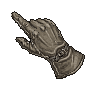
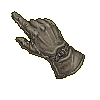
Oberfläche: Mauszeiger-Schein nur noch ein Pixel breiter Goldsaum
Statt der weichen Wolke (30 %) ein Pixel breiter Saum direkt an der Silhouette,
230/190/110 mit 55 % Deckkraft; --schein-neu bildet ihn aus den normal-Bildern.

Agent: oberflaeche
Claude-Session: https://claude.ai/code/session_016Yw37qCSJMoMyzR6gmxRFS

Changed region(s): [[0.09, 0.09, 0.87, 0.81]]

diff --git a/tools/oberflaeche/zeiger_aus_vorlage.py b/tools/oberflaeche/zeiger_aus_vorlage.py
@@ -25,7 +25,7 @@ Mit --gemini ORDNER werden acht fertig gezeichnete Handschuhe (1_gemeiner.png bi
 deckungsgleich ausgerichtet (Fingerspitze und Schnalle), je einzeln gepixelt (Gold, Silber und Edelsteine als Akzente) und als
 hand_<1..6|wache|dieb>_normal|klick_<px>.png geschrieben. Seit 08.11.2026 ohne hellen Außenrand: „normal“ ist der Handschuh mit
 rundum durchsichtigem Rand (SCHEINRAND), „klick“ (beim Drüberfahren über Anklickbares) derselbe Handschuh unverändert mit einem
-weichen Außenschein in diesem Rand (seit 09.11.2026 dezent golden, 30 % statt weiß 80 %). Beide Bilder sind gleich groß, der Zeigerpunkt in hotspots.txt gilt für beide.
+dezenten Goldsaum von einem Pixel in diesem Rand (seit 09.11.2026: 230/190/110, 55 % Deckkraft; vorher weiche weiße Wolke). Beide Bilder sind gleich groß, der Zeigerpunkt in hotspots.txt gilt für beide.
 
 Ausgabe: zeiger_<px>.png, zeiger_<px>_klick.png, hotspots.txt (Fingerspitze = deckendes Pixel mit kleinstem x+y).
 """
@@ -607,8 +607,8 @@ def laden_ausgerichtet(ordner):
 
 SCHEINRAND = {32: 4, 48: 6, 64: 8, 80: 10}   # Pixel durchsichtiger Rand rundum für den Außenschein je Größe
 SCHEIN_FARBE = (230, 190, 110)   # warmes Gold (seit 09.11.2026; vorher Weiß 255/249/232)
-SCHEIN_STAERKE = 0.30            # höchste Deckkraft am Handschuhrand (vorher 0,80)
-SCHEIN_ALT = ((255, 249, 232), 0.80)
+SCHEIN_STAERKE = 0.55            # Deckkraft des Saums (seit 09.11.2026 ein Pixel breit; vorher weiche Wolke bis 0,80, dann 0,30)
+SCHEIN_BREITE = 1                # Pixel Breite des Goldsaums direkt an der Silhouette
 
 
 def auffuellen(bild, pad):
@@ -620,51 +620,51 @@ def auffuellen(bild, pad):
     return neu
 
 
+def saum_ring(innen, breite=SCHEIN_BREITE):
+    """Ring der Breite Pixel um die Silhouette (Nachbarschaft mit Diagonalen, damit der Saum an Ecken geschlossen bleibt)."""
+    m = innen
+    for _ in range(breite):
+        p = np.pad(m, 1)
+        h, w = m.shape
+        m = np.zeros_like(m)
+        for dy in (0, 1, 2):
+            for dx in (0, 1, 2):
+                m = m | p[dy:dy + h, dx:dx + w]
+    return m & ~innen
+
+
 def mit_schein(bild, pad):
-    """Weicher weißer Schein außerhalb der Silhouette (Abstand zum nächsten deckenden Pixel, quadratisch auslaufend);
-    der Handschuh selbst bleibt Pixel für Pixel unverändert."""
+    """Dezenter Goldsaum (SCHEIN_BREITE Pixel, SCHEIN_STAERKE) direkt außerhalb der Silhouette (voll deckende Pixel); der
+    Handschuh selbst bleibt Pixel für Pixel unverändert, alles andere ist durchsichtig."""
     innen = bild[..., 3] == 255
-    h, w = innen.shape
-    dist = np.full((h, w), 1e9, np.float32)
-    p = np.pad(innen, pad)
-    for dy in range(-pad, pad + 1):
-        for dx in range(-pad, pad + 1):
-            d = (dy * dy + dx * dx) ** 0.5
-            if d > pad:
-                continue
-            versetzt = p[pad + dy:pad + dy + h, pad + dx:pad + dx + w]
-            dist = np.where(versetzt, np.minimum(dist, d), dist)
-    t = np.clip(1.0 - (dist - 0.5) / pad, 0.0, 1.0)
-    alpha = SCHEIN_STAERKE * t * t
-    alpha[innen] = 0
+    ring = saum_ring(innen)
     out = bild.copy()
     aussen = ~innen
-    out[aussen, :3] = np.array(SCHEIN_FARBE, np.uint8)
-    out[aussen, 3] = (alpha[aussen] * 255).round().astype(np.uint8)
+    out[aussen, :3] = UMRISS.astype(np.uint8)
+    out[aussen, 3] = 0
+    out[ring, :3] = np.array(SCHEIN_FARBE, np.uint8)
+    out[ring, 3] = int(round(SCHEIN_STAERKE * 255))
     return out
 
 
 def schein_neu_lauf(args):
-    """Schein der fertigen Bilder (hand_*_klick_*.png, tuer_schloss_*.png) im Ordner args.schein_neu auf SCHEIN_FARBE und
-    SCHEIN_STAERKE umstellen, ohne die Vorlagen: Außenpixel mit der alten Scheinfarbe werden umgefärbt, ihre Deckkraft im
-    Verhältnis neu/alt skaliert. Bildgröße und Zeigerpunkt bleiben unverändert."""
-    alt = np.array(SCHEIN_ALT[0], np.uint8)
-    faktor = SCHEIN_STAERKE / SCHEIN_ALT[1]
+    """Schein der fertigen Bilder im Ordner args.schein_neu auf einen SCHEIN_BREITE Pixel breiten Goldsaum umstellen, ohne die
+    Vorlagen: hand_*_klick_*.png wird aus dem zugehörigen hand_*_normal_*.png (ohne Schein) neu gebildet, tuer_schloss_*.png
+    aus seinen voll deckenden Pixeln. Bildgröße, Rand und Zeigerpunkt bleiben unverändert; der Lauf ist wiederholbar."""
     for name in sorted(os.listdir(args.schein_neu)):
         if not name.endswith(".png") or not (name.startswith("tuer_schloss_") or "_klick_" in name):
             continue
         pfad = os.path.join(args.schein_neu, name)
-        bild = oiio.ImageBuf(pfad, 0, 0, _ohne_vormultiplikation()).get_pixels(oiio.UINT8).copy()
-        schein = (bild[..., 3] < 255) & np.all(bild[..., :3] == alt, axis=-1)
-        bild[schein, :3] = np.array(SCHEIN_FARBE, np.uint8)
-        bild[schein, 3] = np.round(bild[schein, 3] * faktor).astype(np.uint8)
-        schreibe(pfad, bild)
-        print(f"{name}: {int(schein.sum())} Scheinpixel")
+        quelle = os.path.join(args.schein_neu, name.replace("_klick_", "_normal_")) if "_klick_" in name else pfad
+        bild = oiio.ImageBuf(quelle, 0, 0, _ohne_vormultiplikation()).get_pixels(oiio.UINT8).copy()
+        neu = mit_schein(bild, 0)
+        schreibe(pfad, neu)
+        print(f"{name}: {int((neu[..., 3] == round(SCHEIN_STAERKE * 255)).sum())} Saumpixel")
 
 
 def schloss_lauf(args):
     """Türschloss (aus tools/modelle/handschuh.py gerendert, tuer_schloss_<px>.png in QUELLE): den hellen halbdurchsichtigen Rand entfernen
-    (nur voll deckende Pixel bleiben) und wie beim Handschuh einen durchsichtigen Rand mit weißem Außenschein anfügen
+    (nur voll deckende Pixel bleiben) und wie beim Handschuh einen durchsichtigen Rand mit dünnem Goldsaum anfügen
     (das Schloss erscheint nur über Anklickbarem). QUELLE muss die unveränderten Bilder enthalten; Ausgabe nach args.ausgabe."""
     os.makedirs(args.ausgabe, exist_ok=True)
     for g in [int(x) for x in args.groessen.split(",") if int(x) in SCHEINRAND and int(x) != 32]:
@@ -751,7 +751,7 @@ def main():
     ap.add_argument("--nachsilbe", default="")
     ap.add_argument("--gemini", help="Ordner mit den sechs Stufenvorlagen (1_gemeiner.png ... 6_reichsgraf.png); dann ist VORLAGE ohne Bedeutung")
     ap.add_argument("--schloss", help="Ordner mit den unveränderten tuer_schloss_<px>.png: Rand entfernen, Schein anfügen (Ausgabe nach AUSGABE)")
-    ap.add_argument("--schein-neu", help="Ordner mit fertigen Zeigerbildern: Schein auf Gold und neue Stärke umstellen (in place); VORLAGE und AUSGABE ohne Bedeutung")
+    ap.add_argument("--schein-neu", help="Ordner mit fertigen Zeigerbildern: Schein als 1-Pixel-Goldsaum aus den normal-Bildern neu bilden (in place); VORLAGE und AUSGABE ohne Bedeutung")
     ap.add_argument("--ziel-hell", type=float, default=58.0, help="Zielhelligkeit des Leders (dunklere Stufen werden darauf angehoben)")
     ap.add_argument("--akzent", type=float, default=0.08, help="Mindestfläche Gold/Silber/Edelstein je Pixel")
     ap.add_argument("--stufen", action="store_true", help="sechs Stufen nach Stand als hand_<stufe>_normal|klick_<px>.png schreiben")

diff --git a/game/assets/oberflaeche/zeiger/HERKUNFT.md b/game/assets/oberflaeche/zeiger/HERKUNFT.md
@@ -2,8 +2,8 @@
 
 Herkunft je Datei: `docs/assets/protokoll.csv`.
 
-**Hände (seit 07.11.2026):** Nutzerzeichnung, vom Nutzer mit Gemini überarbeitet (acht Vorlagenbilder: Gemeiner, Bürger, Patrizier, Edler, Freiherr, Reichsgraf, Wache, Dieb; die Quellbilder liegen nicht im Repository). `tools/oberflaeche/zeiger_aus_vorlage.py` stellt sie frei, richtet sie deckungsgleich aus (Fingerspitze, Schnalle) und pixelt sie je Größe einzeln (Flächenmittel, Umriss neu gezogen, kleine Lederpalette, Gold und Edelsteine als eigene Pixel). **Seit 08.11.2026 ohne hellen Außenrand:** die Bilder sind um einen durchsichtigen Rand von 6/8/10 Pixeln größer (60/80/100 Pixel), „klick“ trägt darin einen weichen Außenschein (seit 09.11.2026 dezent golden, 230/190/110 mit höchstens 30 % Deckkraft statt Weiß mit 80 %; umgestellt mit `zeiger_aus_vorlage.py --schein-neu`, Größe und Zeigerpunkte unverändert), die Lederfarben sind in beiden Fassungen gleich. Acht Hände (sechs nach Stand 1 Gemeiner bis 6 Reichsgraf, dazu 7 Wache und 8 Dieb nur zur freien Wahl) je in „normal“ und „klick“, in 48, 64 und 80 Pixeln. Prompts der Vorlagen sind nicht überliefert (im Protokoll „unbekannt“). **Alle Rechte vorbehalten** (Entscheidung 29.10.2026, `LICENSE-INHALTE.md`).
+**Hände (seit 07.11.2026):** Nutzerzeichnung, vom Nutzer mit Gemini überarbeitet (acht Vorlagenbilder: Gemeiner, Bürger, Patrizier, Edler, Freiherr, Reichsgraf, Wache, Dieb; die Quellbilder liegen nicht im Repository). `tools/oberflaeche/zeiger_aus_vorlage.py` stellt sie frei, richtet sie deckungsgleich aus (Fingerspitze, Schnalle) und pixelt sie je Größe einzeln (Flächenmittel, Umriss neu gezogen, kleine Lederpalette, Gold und Edelsteine als eigene Pixel). **Seit 08.11.2026 ohne hellen Außenrand:** die Bilder sind um einen durchsichtigen Rand von 6/8/10 Pixeln größer (60/80/100 Pixel), „klick“ trägt darin einen weichen Außenschein (seit 09.11.2026 nur noch ein Pixel breiter Goldsaum direkt an der Silhouette, 230/190/110 mit 55 % Deckkraft statt weicher weißer Wolke; aus den „normal“-Bildern neu gebildet mit `zeiger_aus_vorlage.py --schein-neu`, Größe und Zeigerpunkte unverändert), die Lederfarben sind in beiden Fassungen gleich. Acht Hände (sechs nach Stand 1 Gemeiner bis 6 Reichsgraf, dazu 7 Wache und 8 Dieb nur zur freien Wahl) je in „normal“ und „klick“, in 48, 64 und 80 Pixeln. Prompts der Vorlagen sind nicht überliefert (im Protokoll „unbekannt“). **Alle Rechte vorbehalten** (Entscheidung 29.10.2026, `LICENSE-INHALTE.md`).
 
-**Türschloss:** das Bronze-Türschloss (seit 08.11.2026 ohne hellen Rand, mit Scheinrand und goldenem Außenschein wie „klick“, `zeiger_aus_vorlage.py --schloss`) mit S-Griff aus `tools/modelle/handschuh.py` (Blender 5.2.2), eigenes Werk, **Alle Rechte vorbehalten**; 48 und 64 Pixel von 04.11.2026, 80 Pixel neu mit denselben Einstellungen (Rendergröße 480 statt 384, damit 80 ganzzahlig teilt), 32 Pixel entfällt. Am 08.11.2026 alle drei Größen neu gerendert (Rendergröße 960, engerer Kamerarand `--schloss-rand=1`), damit das Schloss so groß wirkt wie der Handschuh. Von „Die Gilde 1“ stammt nur die Idee eines Handschuh-Zeigers, kein Bild.
+**Türschloss:** das Bronze-Türschloss (seit 08.11.2026 ohne hellen Rand, mit Scheinrand und Ein-Pixel-Goldsaum wie „klick“, `zeiger_aus_vorlage.py --schloss`) mit S-Griff aus `tools/modelle/handschuh.py` (Blender 5.2.2), eigenes Werk, **Alle Rechte vorbehalten**; 48 und 64 Pixel von 04.11.2026, 80 Pixel neu mit denselben Einstellungen (Rendergröße 480 statt 384, damit 80 ganzzahlig teilt), 32 Pixel entfällt. Am 08.11.2026 alle drei Größen neu gerendert (Rendergröße 960, engerer Kamerarand `--schloss-rand=1`), damit das Schloss so groß wirkt wie der Handschuh. Von „Die Gilde 1“ stammt nur die Idee eines Handschuh-Zeigers, kein Bild.
 
 Namen: `hand_<1..6|wache|dieb>_<normal|klick>_<px>.png`, `tuer_schloss_<px>.png`. Die Zeigerpunkte (Fingerspitze, Mitte des Schlüssellochs) stehen in `game/scripts/Mauszeiger.cs`.

diff --git a/docs/bereiche/oberflaeche.md b/docs/bereiche/oberflaeche.md
@@ -349,7 +349,7 @@ So wird eingetragen (damit sich die Chats nie an derselben Stelle treffen):
 | Thema | Entscheidung | Datum |
 |---|---|---|
 | Wunsch | Das Leuchten beim Drüberfahren war zu hell (Nutzer, 09.11.2026): nur merken, dass sich etwas ändert; Farbe leicht golden. | 09.11.2026 |
-| Umsetzung | Scheinfarbe warmes Gold 230/190/110 statt Weiß, höchste Deckkraft 30 % statt 80 % (Verlauf unverändert quadratisch auslaufend). Alle acht Hände (klick) und das Türschloss, alle Größen; Bildgröße, Scheinrand 6/8/10 und Zeigerpunkte bleiben, `Mauszeiger.cs` unverändert. Umgestellt mit `zeiger_aus_vorlage.py --schein-neu ORDNER` (Außenpixel der alten Farbe umfärben, Deckkraft mal 0,375), die Konstanten `SCHEIN_FARBE`/`SCHEIN_STAERKE` gelten auch für neue Läufe. | 09.11.2026 |
+| Umsetzung | Scheinfarbe warmes Gold 230/190/110 statt Weiß. Nach Rückmeldung des Nutzers (09.11.2026: auch 30 % noch zu kräftig) keine weiche Wolke mehr, sondern **ein Pixel breiter Saum** (8 Nachbarn, damit er an Ecken geschlossen bleibt) direkt an der Silhouette mit 55 % Deckkraft. Alle acht Hände (klick) und das Türschloss, alle Größen; Bildgröße, Scheinrand 6/8/10 und Zeigerpunkte bleiben, `Mauszeiger.cs` unverändert. `zeiger_aus_vorlage.py --schein-neu ORDNER` bildet den Saum aus den normal-Bildern (Schloss: aus seinen voll deckenden Pixeln) neu und ist wiederholbar; `SCHEIN_FARBE`, `SCHEIN_STAERKE`, `SCHEIN_BREITE` gelten auch für `--gemini` und `--schloss`. | 09.11.2026 |
 
 ### Türschloss so groß wie der Handschuh (PR „Oberfläche: Türschloss-Zeiger an Handschuhgröße angepasst“)
 
